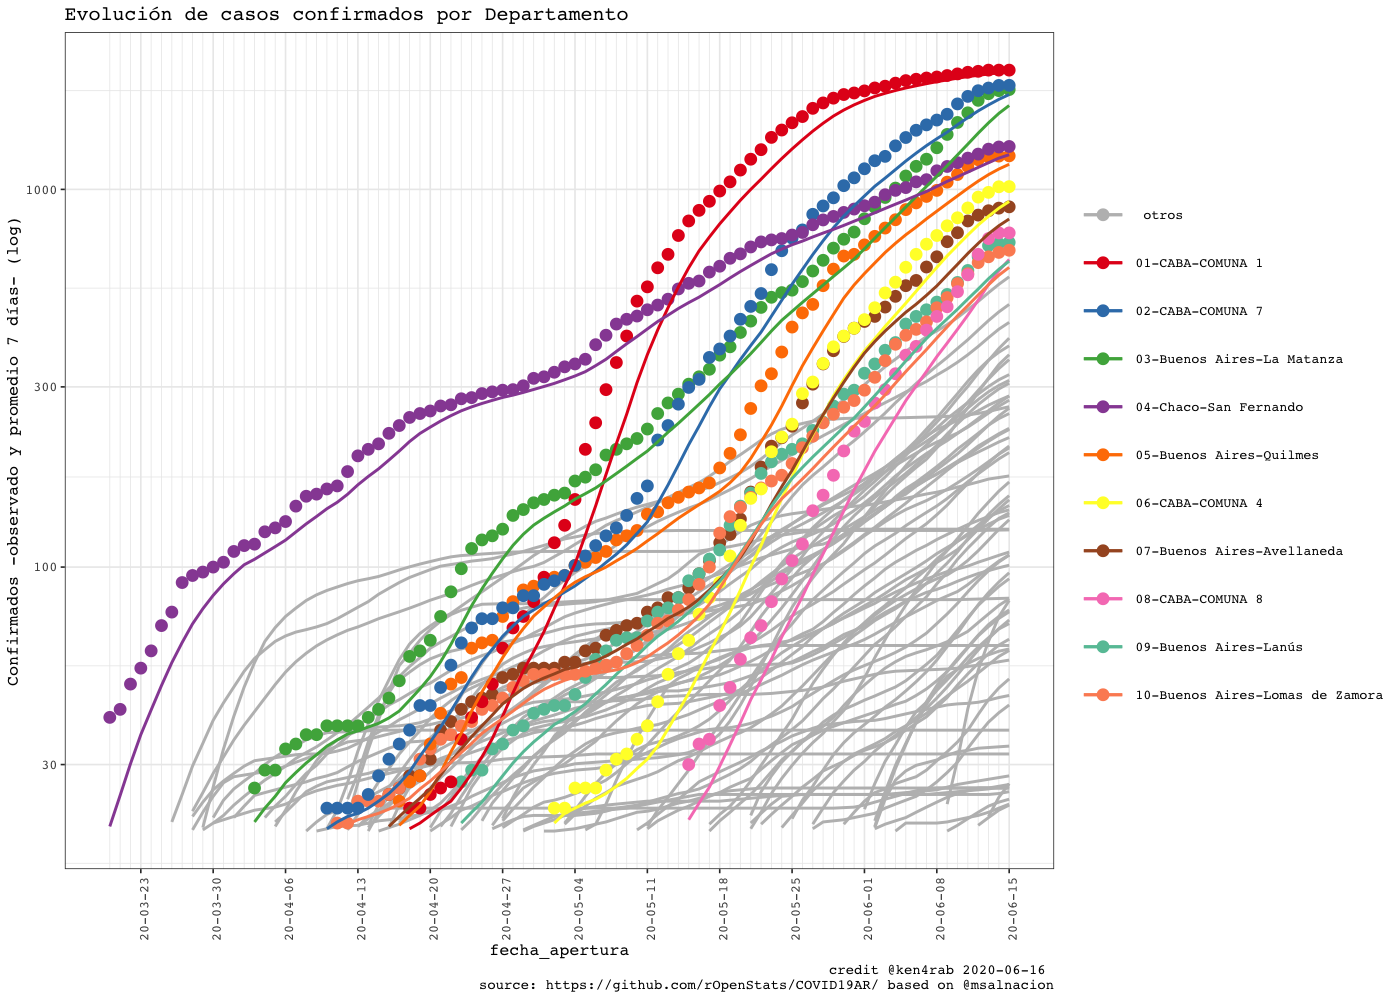
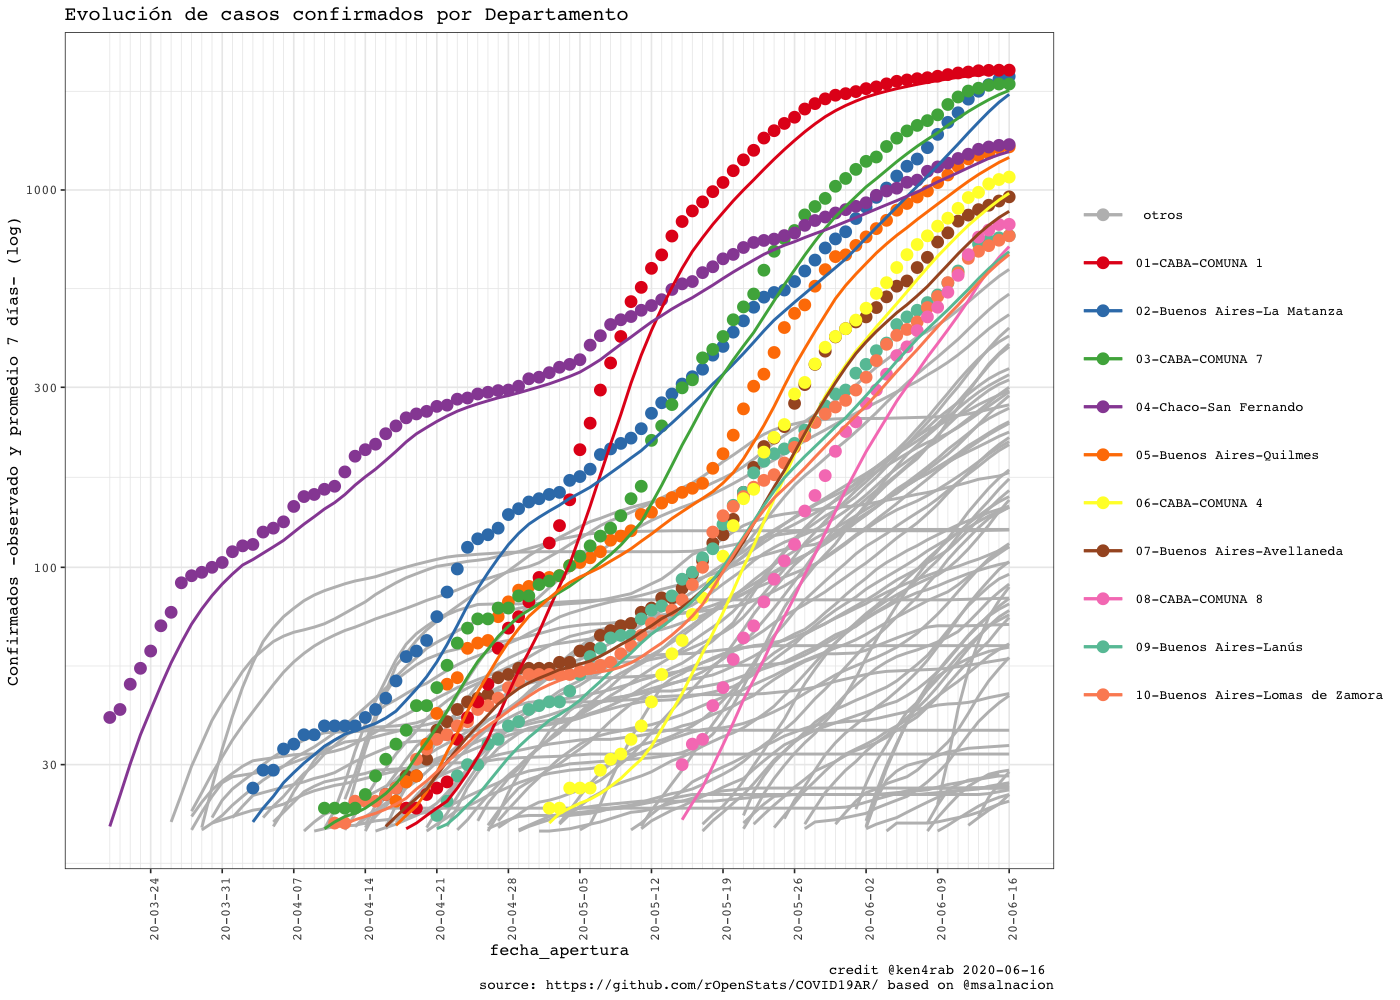
Updated up to 2020-06-16

diff --git a/README.md b/README.md
@@ -86,11 +86,11 @@ lgr::threshold("info", lgr::get_logger("COVID19ARCurator"))
 covid19.curator <- COVID19ARCurator$new(download.new.data = FALSE)
 
 dummy <- covid19.curator$loadData()
-#> INFO  [00:14:07.855] Exists dest path? {dest.path: ~/.R/COVID19AR/Covid19Casos.csv, exists.dest.path: TRUE}
+#> INFO  [00:34:33.480] Exists dest path? {dest.path: ~/.R/COVID19AR/Covid19Casos.csv, exists.dest.path: TRUE}
 dummy <- covid19.curator$curateData()
-#> INFO  [00:14:09.694] Normalize 
-#> INFO  [00:14:10.098] checkSoundness 
-#> INFO  [00:14:10.229] Mutating data
+#> INFO  [00:34:35.215] Normalize 
+#> INFO  [00:34:35.645] checkSoundness 
+#> INFO  [00:34:35.791] Mutating data
 # Dates of current processed file
 max(covid19.curator$data$fecha_apertura, na.rm = TRUE)
 #> [1] "2020-06-16"
@@ -151,7 +151,49 @@ kable((covid19.ar.summary %>% filter(confirmados > 0) %>% arrange(desc(confirmad
 | La Pampa                      |           6 |   294 |          0 |                NaN |              0.000 |              0.000 |            0.020 |           0.167 |                  0.000 |           0.000 |
 
 ``` r
-getDepartamentosExponentialGrowthPlot(covid19.curator)
+max.date.complete <- as.Date(covid19.curator$max.date)
+
+covid19.ar.summary <- covid19.curator$makeSummary(group.vars = c("residencia_provincia_nombre", "residencia_departamento_nombre", "fecha_apertura"),
+                                                   cache.filename = "covid19ar_residencia_provincia_nombre-residencia_departamento_nombre-fecha_apertura.csv")
+#> Parsed with column specification:
+#> cols(
+#>   .default = col_double(),
+#>   residencia_provincia_nombre = col_character(),
+#>   residencia_departamento_nombre = col_character(),
+#>   fecha_apertura = col_date(format = "")
+#> )
+#> See spec(...) for full column specifications.
+
+max(covid19.ar.summary$fecha_apertura)
+#> [1] "2020-06-16"
+ # CABA reports data twice
+nrow(covid19.ar.summary)
+#> [1] 19285
+covid19.ar.summary %<>% filter(!(residencia_provincia_nombre == "CABA" & residencia_departamento_nombre == "SIN ESPECIFICAR"))
+nrow(covid19.ar.summary)
+#> [1] 19176
+
+covid19.ar.summary.last <- covid19.ar.summary %>% filter(fecha_apertura == max.date.complete)
+covid19.ar.summary.last %<>% mutate(rank = rank(desc(confirmados)))
+kable(covid19.ar.summary.last %>% filter(rank <= 10) %>% arrange(rank))
+```
+
+| residencia\_provincia\_nombre | residencia\_departamento\_nombre | fecha\_apertura |    n | confirmados | descartados | sospechosos | fallecidos | tests | sin.clasificar | letalidad.min.porc | letalidad.max.porc | positividad.porc | internados | internados.porc | cuidado.intensivo | cuidado.intensivo.porc | respirador | respirador.porc | dias.diagnostico | dias.apertura | dias.cuidado.intensivo | dias.fallecimiento | dias.inicio | confirmados.inc | confirmados.rate | fallecidos.inc | tests.inc | tests.rate | sospechosos.inc | rank |
+| :---------------------------- | :------------------------------- | :-------------- | ---: | ----------: | ----------: | ----------: | ---------: | ----: | -------------: | -----------------: | -----------------: | ---------------: | ---------: | --------------: | ----------------: | ---------------------: | ---------: | --------------: | ---------------: | ------------: | ---------------------: | -----------------: | ----------: | --------------: | ---------------: | -------------: | --------: | ---------: | --------------: | ---: |
+| CABA                          | COMUNA 1                         | 2020-06-16      | 3686 |        2078 |        1446 |         162 |         26 |  3520 |              0 |              0.012 |              0.013 |            0.590 |        522 |           0.251 |                45 |                  0.022 |         29 |           0.014 |              4.7 |          33.0 |                    5.3 |               17.6 |          94 |               1 |        0.0004815 |              0 |         2 |  0.0005685 |              31 |    1 |
+| Buenos Aires                  | La Matanza                       | 2020-06-16      | 9657 |        2000 |        6772 |         885 |         40 |  8764 |              0 |              0.014 |              0.020 |            0.228 |        462 |           0.231 |                41 |                  0.020 |         20 |           0.010 |              5.3 |          21.8 |                    5.7 |               11.9 |          99 |              34 |        0.0172940 |              0 |        50 |  0.0057379 |             199 |    2 |
+| CABA                          | COMUNA 7                         | 2020-06-16      | 3613 |        1909 |        1422 |         282 |         28 |  3330 |              0 |              0.013 |              0.015 |            0.573 |        438 |           0.229 |                43 |                  0.023 |         22 |           0.012 |              4.6 |          24.3 |                    6.9 |               12.4 |          93 |               0 |        0.0000000 |              0 |         1 |  0.0003004 |              46 |    3 |
+| Chaco                         | San Fernando                     | 2020-06-16      | 8141 |        1319 |        6156 |         666 |         73 |  7469 |              0 |              0.037 |              0.055 |            0.177 |        188 |           0.143 |                82 |                  0.062 |         48 |           0.036 |              6.8 |          39.5 |                    5.7 |               13.6 |          98 |               6 |        0.0045697 |              0 |        23 |  0.0030889 |             120 |    4 |
+| Buenos Aires                  | Quilmes                          | 2020-06-16      | 5858 |        1301 |        4034 |         523 |         15 |  5315 |              0 |              0.008 |              0.012 |            0.245 |        246 |           0.189 |                24 |                  0.018 |          5 |           0.004 |              6.1 |          25.0 |                    6.2 |               14.1 |         100 |               9 |        0.0069659 |              0 |        20 |  0.0037771 |             142 |    5 |
+| CABA                          | COMUNA 4                         | 2020-06-16      | 3226 |        1082 |        1849 |         295 |          8 |  2927 |              0 |              0.006 |              0.007 |            0.370 |        148 |           0.137 |                15 |                  0.014 |          8 |           0.007 |              4.3 |          18.3 |                    5.5 |               12.7 |          88 |              16 |        0.0150094 |              0 |        27 |  0.0093103 |             127 |    6 |
+| Buenos Aires                  | Avellaneda                       | 2020-06-16      | 3637 |         959 |        2197 |         481 |         19 |  3146 |              0 |              0.013 |              0.020 |            0.305 |        213 |           0.222 |                22 |                  0.023 |         10 |           0.010 |              5.2 |          22.2 |                    4.0 |                9.2 |          95 |              24 |        0.0256684 |              0 |        40 |  0.0128783 |              78 |    7 |
+| CABA                          | COMUNA 8                         | 2020-06-16      | 2047 |         811 |         997 |         239 |          3 |  1807 |              0 |              0.003 |              0.004 |            0.449 |        100 |           0.123 |                 5 |                  0.006 |          3 |           0.004 |              4.3 |          15.9 |                    4.0 |               15.0 |          85 |               1 |        0.0012346 |              0 |         2 |  0.0011080 |             109 |    8 |
+| Buenos Aires                  | Lanús                            | 2020-06-16      | 4203 |         757 |        2972 |         474 |          9 |  3720 |              0 |              0.007 |              0.012 |            0.203 |        174 |           0.230 |                16 |                  0.021 |          4 |           0.005 |              6.0 |          21.9 |                    4.4 |                9.2 |          95 |              10 |        0.0133869 |              0 |        21 |  0.0056772 |             115 |    9 |
+| Buenos Aires                  | Lomas de Zamora                  | 2020-06-16      | 5096 |         756 |        3572 |         768 |         16 |  4316 |              0 |              0.010 |              0.021 |            0.175 |        192 |           0.254 |                19 |                  0.025 |          8 |           0.011 |              5.5 |          21.0 |                    3.8 |                7.6 |         102 |              20 |        0.0271739 |              0 |        31 |  0.0072345 |             132 |   10 |
+
+``` r
+
+getDepartamentosExponentialGrowthPlot(covid19ar.curator = covid19.curator)
 #> Parsed with column specification:
 #> cols(
 #>   .default = col_double(),
@@ -168,7 +210,7 @@ getDepartamentosExponentialGrowthPlot(covid19.curator)
 
 ``` r
 covid19.ar.summary <- covid19.curator$makeSummary(group.vars = c("sepi_apertura"))
-#> INFO  [00:14:38.902] Processing {current.group: }
+#> INFO  [00:35:05.082] Processing {current.group: }
 nrow(covid19.ar.summary)
 #> [1] 21
 porc.cols <- names(covid19.ar.summary)[grep("porc", names(covid19.ar.summary))]
@@ -198,31 +240,31 @@ kable(covid19.ar.summary %>% filter(confirmados > 0) %>% arrange(sepi_apertura, 
 
 ```r
 covid19.ar.summary <- covid19.curator$makeSummary(group.vars = c("residencia_provincia_nombre", "sepi_apertura"))
-#> INFO  [00:14:43.153] Processing {current.group: residencia_provincia_nombre = Buenos Aires}
-#> INFO  [00:14:45.828] Processing {current.group: residencia_provincia_nombre = CABA}
-#> INFO  [00:14:47.877] Processing {current.group: residencia_provincia_nombre = Catamarca}
-#> INFO  [00:14:49.214] Processing {current.group: residencia_provincia_nombre = Chaco}
-#> INFO  [00:14:50.661] Processing {current.group: residencia_provincia_nombre = Chubut}
-#> INFO  [00:14:51.927] Processing {current.group: residencia_provincia_nombre = Córdoba}
-#> INFO  [00:14:53.641] Processing {current.group: residencia_provincia_nombre = Corrientes}
-#> INFO  [00:14:55.064] Processing {current.group: residencia_provincia_nombre = Entre Ríos}
-#> INFO  [00:14:56.421] Processing {current.group: residencia_provincia_nombre = Formosa}
-#> INFO  [00:14:57.825] Processing {current.group: residencia_provincia_nombre = Jujuy}
-#> INFO  [00:14:59.087] Processing {current.group: residencia_provincia_nombre = La Pampa}
-#> INFO  [00:15:00.349] Processing {current.group: residencia_provincia_nombre = La Rioja}
-#> INFO  [00:15:01.685] Processing {current.group: residencia_provincia_nombre = Mendoza}
-#> INFO  [00:15:03.097] Processing {current.group: residencia_provincia_nombre = Misiones}
-#> INFO  [00:15:04.514] Processing {current.group: residencia_provincia_nombre = Neuquén}
-#> INFO  [00:15:05.817] Processing {current.group: residencia_provincia_nombre = Río Negro}
-#> INFO  [00:15:07.228] Processing {current.group: residencia_provincia_nombre = Salta}
-#> INFO  [00:15:08.525] Processing {current.group: residencia_provincia_nombre = San Juan}
-#> INFO  [00:15:09.850] Processing {current.group: residencia_provincia_nombre = San Luis}
-#> INFO  [00:15:11.130] Processing {current.group: residencia_provincia_nombre = Santa Cruz}
-#> INFO  [00:15:12.436] Processing {current.group: residencia_provincia_nombre = Santa Fe}
-#> INFO  [00:15:14.176] Processing {current.group: residencia_provincia_nombre = Santiago del Estero}
-#> INFO  [00:15:15.453] Processing {current.group: residencia_provincia_nombre = SIN ESPECIFICAR}
-#> INFO  [00:15:16.895] Processing {current.group: residencia_provincia_nombre = Tierra del Fuego}
-#> INFO  [00:15:18.328] Processing {current.group: residencia_provincia_nombre = Tucumán}
+#> INFO  [00:35:08.946] Processing {current.group: residencia_provincia_nombre = Buenos Aires}
+#> INFO  [00:35:11.527] Processing {current.group: residencia_provincia_nombre = CABA}
+#> INFO  [00:35:13.412] Processing {current.group: residencia_provincia_nombre = Catamarca}
+#> INFO  [00:35:14.610] Processing {current.group: residencia_provincia_nombre = Chaco}
+#> INFO  [00:35:16.041] Processing {current.group: residencia_provincia_nombre = Chubut}
+#> INFO  [00:35:17.364] Processing {current.group: residencia_provincia_nombre = Córdoba}
+#> INFO  [00:35:19.009] Processing {current.group: residencia_provincia_nombre = Corrientes}
+#> INFO  [00:35:20.476] Processing {current.group: residencia_provincia_nombre = Entre Ríos}
+#> INFO  [00:35:21.894] Processing {current.group: residencia_provincia_nombre = Formosa}
+#> INFO  [00:35:23.281] Processing {current.group: residencia_provincia_nombre = Jujuy}
+#> INFO  [00:35:24.512] Processing {current.group: residencia_provincia_nombre = La Pampa}
+#> INFO  [00:35:25.748] Processing {current.group: residencia_provincia_nombre = La Rioja}
+#> INFO  [00:35:27.090] Processing {current.group: residencia_provincia_nombre = Mendoza}
+#> INFO  [00:35:28.572] Processing {current.group: residencia_provincia_nombre = Misiones}
+#> INFO  [00:35:30.042] Processing {current.group: residencia_provincia_nombre = Neuquén}
+#> INFO  [00:35:31.568] Processing {current.group: residencia_provincia_nombre = Río Negro}
+#> INFO  [00:35:33.414] Processing {current.group: residencia_provincia_nombre = Salta}
+#> INFO  [00:35:35.065] Processing {current.group: residencia_provincia_nombre = San Juan}
+#> INFO  [00:35:36.715] Processing {current.group: residencia_provincia_nombre = San Luis}
+#> INFO  [00:35:38.491] Processing {current.group: residencia_provincia_nombre = Santa Cruz}
+#> INFO  [00:35:40.008] Processing {current.group: residencia_provincia_nombre = Santa Fe}
+#> INFO  [00:35:41.597] Processing {current.group: residencia_provincia_nombre = Santiago del Estero}
+#> INFO  [00:35:42.890] Processing {current.group: residencia_provincia_nombre = SIN ESPECIFICAR}
+#> INFO  [00:35:44.324] Processing {current.group: residencia_provincia_nombre = Tierra del Fuego}
+#> INFO  [00:35:45.858] Processing {current.group: residencia_provincia_nombre = Tucumán}
 nrow(covid19.ar.summary)
 #> [1] 401
 porc.cols <- names(covid19.ar.summary)[grep("porc", names(covid19.ar.summary))]
